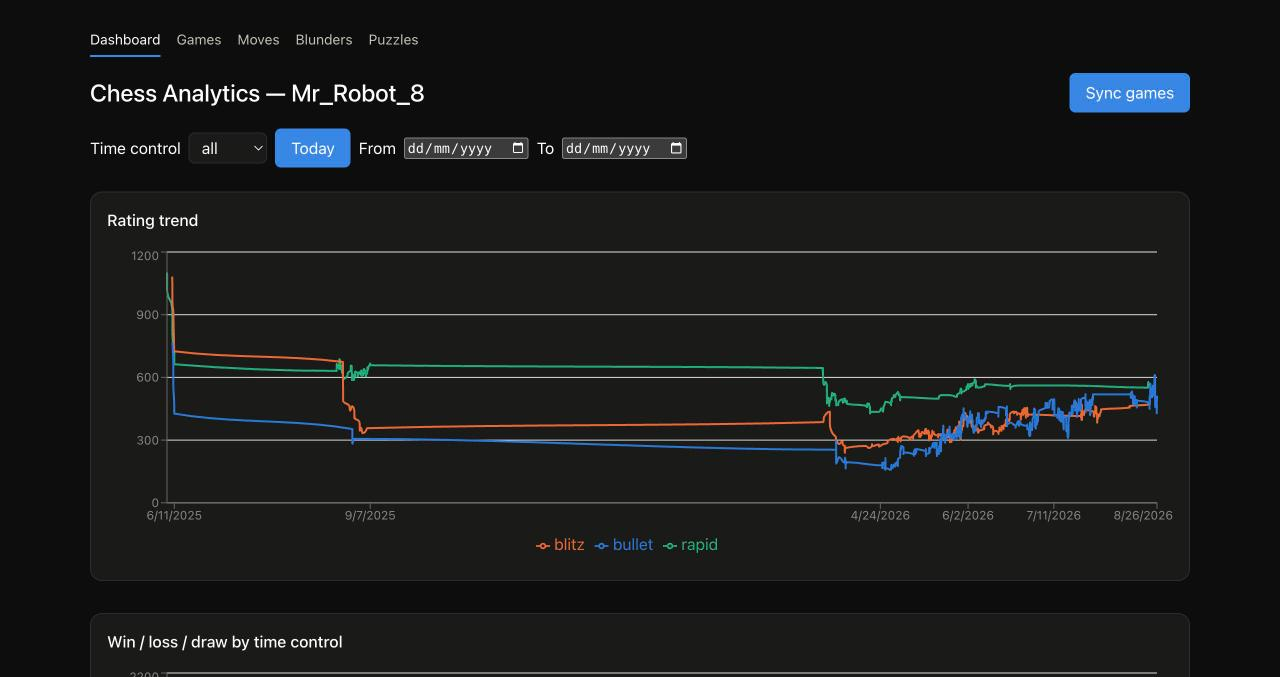
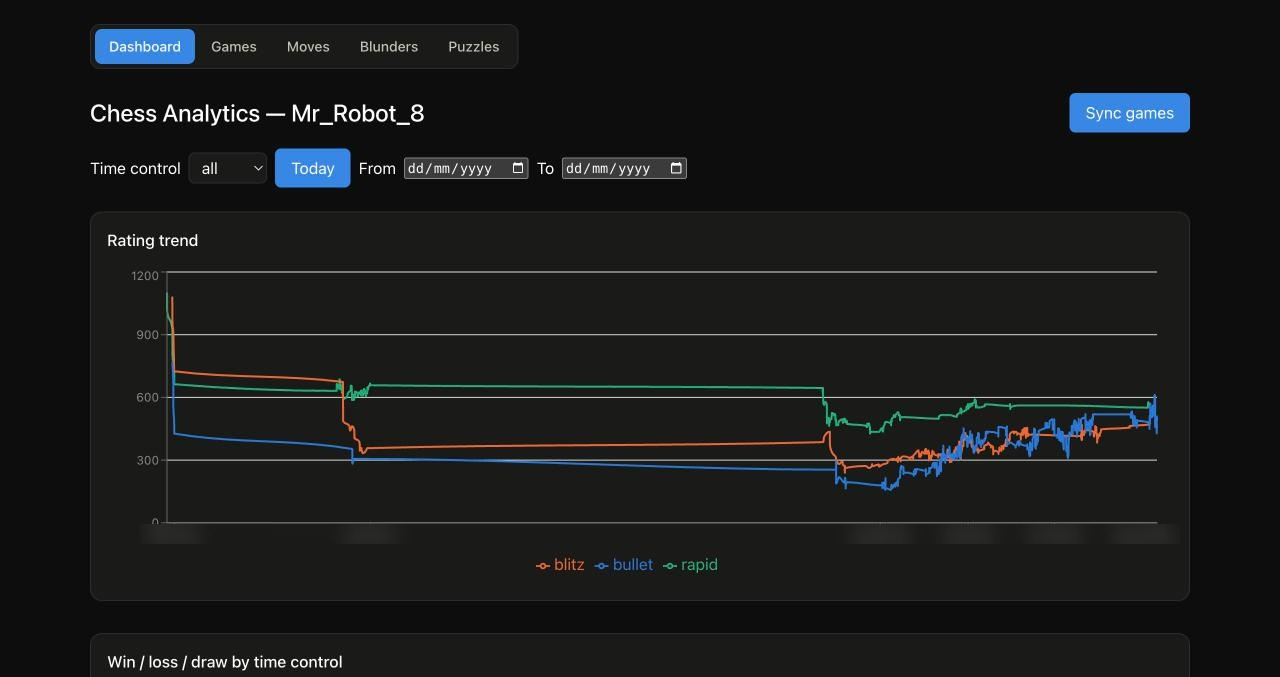
Refresh Solutions screenshots and redact sensitive data
Add/update screenshots for Steno, Ironlog, Chess Analytics, Quizbase,
Video Downloader, and Expense Tracker; renumber sequentially so the
gallery's auto-probe finds every image. Blur rupee amounts and all
exposed dates/timestamps across the set. Make the thumbnail row
horizontally scrollable instead of wrapping.

diff --git a/styles.css b/styles.css
@@ -981,16 +981,28 @@ a:focus-visible {
    solution with none keeps exactly the layout it had before.              */
 .work-shots {
   display: flex;
-  flex-wrap: wrap;
+  flex-wrap: nowrap;
   gap: 0.6rem;
   list-style: none;
   margin: 1.25rem 0 0;
-  padding: 0;
+  padding: 0 0 0.6rem;
+  overflow-x: auto;
+  scrollbar-width: thin;
+  scrollbar-color: var(--line-dark) transparent;
 }
+
+.work-shots::-webkit-scrollbar { height: 6px; }
+.work-shots::-webkit-scrollbar-track { background: transparent; }
+.work-shots::-webkit-scrollbar-thumb {
+  background: var(--line-dark);
+  border-radius: 3px;
+}
+.work-shots::-webkit-scrollbar-thumb:hover { background: var(--ink-3); }
 
 .work-shot {
   position: relative;
   display: block;
+  flex: 0 0 auto;
   width: 132px;
   aspect-ratio: 16 / 10;
   overflow: hidden;
@@ -1034,7 +1046,7 @@ a:focus-visible {
 .work-shot:focus-visible::after { opacity: 1; }
 
 @media (max-width: 560px) {
-  .work-shot { width: calc(50% - 0.3rem); }
+  .work-shot { width: 108px; }
 }
 
 /* ---- Viewer ---- */
